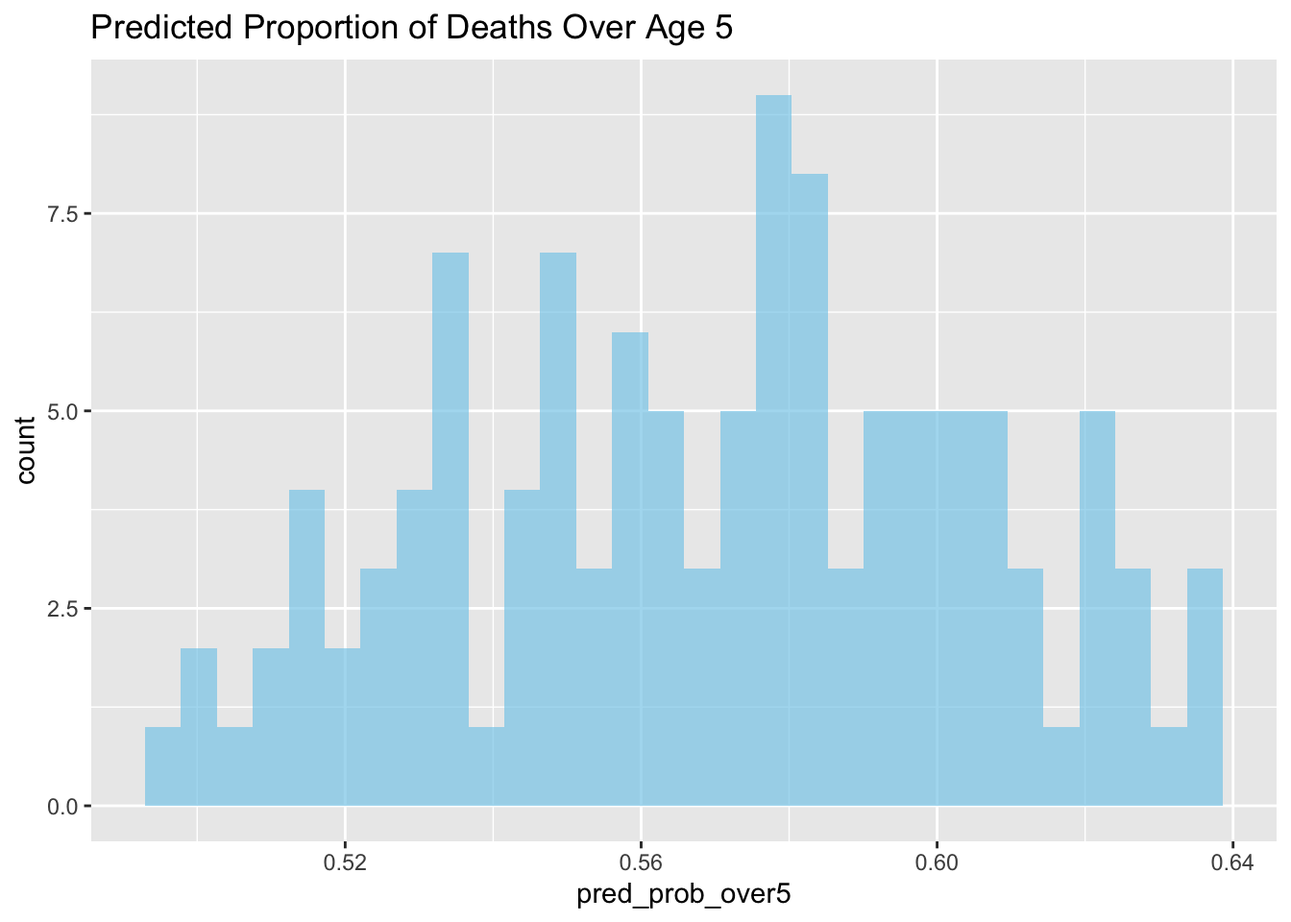
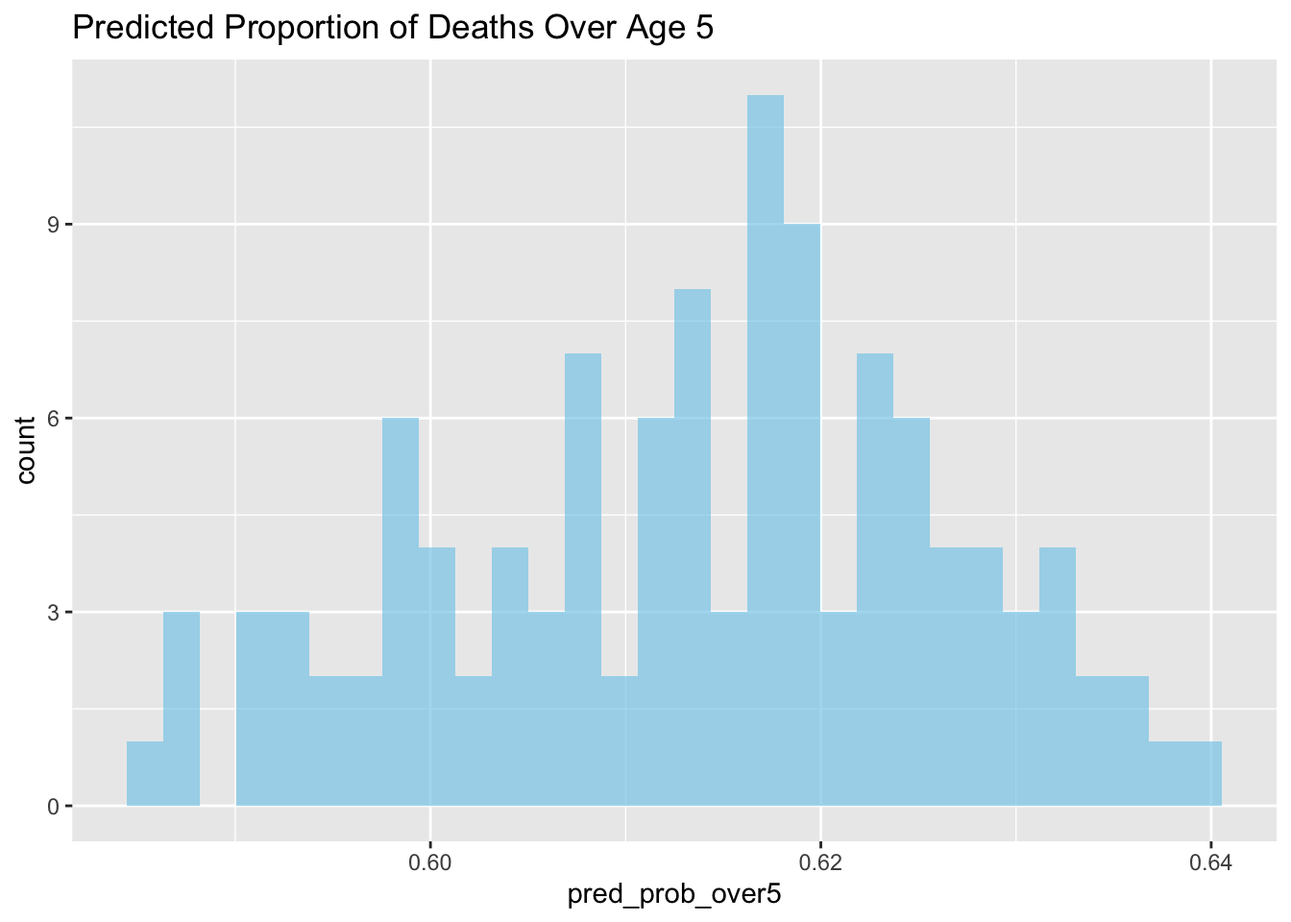
added updates

diff --git a/labs/day 1/day 1 lab 3.html b/labs/day 1/day 1 lab 3.html
@@ -188,26 +188,40 @@ lm(formula = mortality ~ Temp + Ozone, data = data)
 
 Residuals:
     Min      1Q  Median      3Q     Max 
--3.2857 -1.2708 -0.3406  1.0124  5.7048 
+-3.1125 -1.1216 -0.0759  0.9625  3.8896 
 
 Coefficients:
-            Estimate Std. Error t value Pr(&gt;|t|)
-(Intercept) 1.481652   1.623929   0.912    0.364
-Temp        0.010033   0.023108   0.434    0.665
-Ozone       0.010129   0.006645   1.524    0.130
+             Estimate Std. Error t value Pr(&gt;|t|)  
+(Intercept) -1.435160   1.421605  -1.010   0.3149  
+Temp         0.044623   0.020229   2.206   0.0294 *
+Ozone        0.014200   0.005817   2.441   0.0162 *
+---
+Signif. codes:  0 '***' 0.001 '**' 0.01 '*' 0.05 '.' 0.1 ' ' 1
 
-Residual standard error: 1.682 on 113 degrees of freedom
-Multiple R-squared:  0.05604,   Adjusted R-squared:  0.03933 
-F-statistic: 3.354 on 2 and 113 DF,  p-value: 0.03845</code></pre>
+Residual standard error: 1.473 on 113 degrees of freedom
+Multiple R-squared:  0.2407,    Adjusted R-squared:  0.2272 
+F-statistic: 17.91 on 2 and 113 DF,  p-value: 1.756e-07</code></pre>
 </div>
 </div>
+<div class="cell">
+<div class="sourceCode cell-code" id="cb17"><pre class="sourceCode r code-with-copy"><code class="sourceCode r"><span id="cb17-1"><a href="#cb17-1" aria-hidden="true" tabindex="-1"></a><span class="fu">par</span>(<span class="at">mfrow =</span> <span class="fu">c</span>(<span class="dv">1</span>, <span class="dv">2</span>))</span>
+<span id="cb17-2"><a href="#cb17-2" aria-hidden="true" tabindex="-1"></a><span class="fu">plot</span>(model_normal<span class="sc">$</span>fitted.values, <span class="fu">resid</span>(model_normal),</span>
+<span id="cb17-3"><a href="#cb17-3" aria-hidden="true" tabindex="-1"></a>     <span class="at">main =</span> <span class="st">"Residuals vs Fitted"</span>,</span>
+<span id="cb17-4"><a href="#cb17-4" aria-hidden="true" tabindex="-1"></a>     <span class="at">xlab =</span> <span class="st">"Fitted values"</span>, <span class="at">ylab =</span> <span class="st">"Residuals"</span>)</span>
+<span id="cb17-5"><a href="#cb17-5" aria-hidden="true" tabindex="-1"></a><span class="fu">abline</span>(<span class="at">h =</span> <span class="dv">0</span>, <span class="at">lty =</span> <span class="dv">2</span>)</span>
+<span id="cb17-6"><a href="#cb17-6" aria-hidden="true" tabindex="-1"></a><span class="fu">hist</span>(<span class="fu">resid</span>(model_normal), <span class="at">main =</span> <span class="st">"Histogram of Residuals"</span>, <span class="at">xlab =</span> <span class="st">"Residuals"</span>)</span></code><button title="Copy to Clipboard" class="code-copy-button"><i class="bi"></i></button></pre></div>
+<div class="cell-output-display">
+<p><img src="day-1-lab-3_files/figure-html/normal-goodness-of-fit-1.png" class="img-fluid" width="672"></p>
+</div>
+</div>
+<p>If residuals are roughly centered around zero and evenly spread (no funnel shape), and the histogram appears approximately normal, then the linear model fits reasonably well.</p>
 <section id="plot" class="level3">
 <h3 class="anchored" data-anchor-id="plot">Plot</h3>
 <div class="cell">
-<div class="sourceCode cell-code" id="cb17"><pre class="sourceCode r code-with-copy"><code class="sourceCode r"><span id="cb17-1"><a href="#cb17-1" aria-hidden="true" tabindex="-1"></a><span class="fu">ggplot</span>(data, <span class="fu">aes</span>(<span class="at">x =</span> Temp, <span class="at">y =</span> mortality)) <span class="sc">+</span></span>
-<span id="cb17-2"><a href="#cb17-2" aria-hidden="true" tabindex="-1"></a>  <span class="fu">geom_point</span>(<span class="at">alpha =</span> <span class="fl">0.4</span>) <span class="sc">+</span></span>
-<span id="cb17-3"><a href="#cb17-3" aria-hidden="true" tabindex="-1"></a>  <span class="fu">geom_smooth</span>(<span class="at">method =</span> <span class="st">"lm"</span>, <span class="at">se =</span> <span class="cn">FALSE</span>, <span class="at">color =</span> <span class="st">"blue"</span>) <span class="sc">+</span></span>
-<span id="cb17-4"><a href="#cb17-4" aria-hidden="true" tabindex="-1"></a>  <span class="fu">labs</span>(<span class="at">title =</span> <span class="st">"Simulated Mortality vs Temperature"</span>)</span></code><button title="Copy to Clipboard" class="code-copy-button"><i class="bi"></i></button></pre></div>
+<div class="sourceCode cell-code" id="cb18"><pre class="sourceCode r code-with-copy"><code class="sourceCode r"><span id="cb18-1"><a href="#cb18-1" aria-hidden="true" tabindex="-1"></a><span class="fu">ggplot</span>(data, <span class="fu">aes</span>(<span class="at">x =</span> Temp, <span class="at">y =</span> mortality)) <span class="sc">+</span></span>
+<span id="cb18-2"><a href="#cb18-2" aria-hidden="true" tabindex="-1"></a>  <span class="fu">geom_point</span>(<span class="at">alpha =</span> <span class="fl">0.4</span>) <span class="sc">+</span></span>
+<span id="cb18-3"><a href="#cb18-3" aria-hidden="true" tabindex="-1"></a>  <span class="fu">geom_smooth</span>(<span class="at">method =</span> <span class="st">"lm"</span>, <span class="at">se =</span> <span class="cn">FALSE</span>, <span class="at">color =</span> <span class="st">"blue"</span>) <span class="sc">+</span></span>
+<span id="cb18-4"><a href="#cb18-4" aria-hidden="true" tabindex="-1"></a>  <span class="fu">labs</span>(<span class="at">title =</span> <span class="st">"Simulated Mortality vs Temperature"</span>)</span></code><button title="Copy to Clipboard" class="code-copy-button"><i class="bi"></i></button></pre></div>
 <div class="cell-output cell-output-stderr">
 <pre><code>`geom_smooth()` using formula = 'y ~ x'</code></pre>
 </div>
@@ -220,8 +234,10 @@ F-statistic: 3.354 on 2 and 113 DF,  p-value: 0.03845</code></pre>
 <section id="poisson-regression-count-data" class="level2">
 <h2 class="anchored" data-anchor-id="poisson-regression-count-data">2. Poisson Regression (Count Data)</h2>
 <div class="cell">
-<div class="sourceCode cell-code" id="cb19"><pre class="sourceCode r code-with-copy"><code class="sourceCode r"><span id="cb19-1"><a href="#cb19-1" aria-hidden="true" tabindex="-1"></a>model_poisson <span class="ot">&lt;-</span> <span class="fu">glm</span>(mortality <span class="sc">~</span> Temp <span class="sc">+</span> Ozone <span class="sc">+</span> day_of_week, <span class="at">family =</span> <span class="fu">poisson</span>(), <span class="at">data =</span> data)</span>
-<span id="cb19-2"><a href="#cb19-2" aria-hidden="true" tabindex="-1"></a><span class="fu">summary</span>(model_poisson)</span></code><button title="Copy to Clipboard" class="code-copy-button"><i class="bi"></i></button></pre></div>
+<div class="sourceCode cell-code" id="cb20"><pre class="sourceCode r code-with-copy"><code class="sourceCode r"><span id="cb20-1"><a href="#cb20-1" aria-hidden="true" tabindex="-1"></a>model_poisson <span class="ot">&lt;-</span> <span class="fu">glm</span>(mortality <span class="sc">~</span> Temp <span class="sc">+</span> Ozone <span class="sc">+</span> day_of_week, </span>
+<span id="cb20-2"><a href="#cb20-2" aria-hidden="true" tabindex="-1"></a>                     <span class="at">family =</span> <span class="fu">poisson</span>(), </span>
+<span id="cb20-3"><a href="#cb20-3" aria-hidden="true" tabindex="-1"></a>                     <span class="at">data =</span> data)</span>
+<span id="cb20-4"><a href="#cb20-4" aria-hidden="true" tabindex="-1"></a><span class="fu">summary</span>(model_poisson)</span></code><button title="Copy to Clipboard" class="code-copy-button"><i class="bi"></i></button></pre></div>
 <div class="cell-output cell-output-stdout">
 <pre><code>
 Call:
@@ -230,35 +246,43 @@ glm(formula = mortality ~ Temp + Ozone + day_of_week, family = poisson(),
 
 Coefficients:
                 Estimate Std. Error z value Pr(&gt;|z|)  
-(Intercept)     0.053362   0.668222   0.080   0.9364  
-Temp            0.009710   0.008970   1.083   0.2790  
-Ozone           0.002145   0.002362   0.908   0.3639  
-day_of_weekMon  0.142881   0.199060   0.718   0.4729  
-day_of_weekSat  0.022359   0.206017   0.109   0.9136  
-day_of_weekSun  0.348766   0.208857   1.670   0.0949 .
-day_of_weekThu -0.090893   0.239740  -0.379   0.7046  
-day_of_weekTue -0.057654   0.235307  -0.245   0.8064  
-day_of_weekWed  0.053262   0.223112   0.239   0.8113  
+(Intercept)    -1.082023   0.675783  -1.601   0.1093  
+Temp            0.019215   0.008750   2.196   0.0281 *
+Ozone           0.004714   0.002227   2.117   0.0343 *
+day_of_weekMon  0.377902   0.303415   1.245   0.2129  
+day_of_weekSat  0.250959   0.271264   0.925   0.3549  
+day_of_weekSun  0.180594   0.272931   0.662   0.5082  
+day_of_weekThu  0.300581   0.264392   1.137   0.2556  
+day_of_weekTue  0.509072   0.269844   1.887   0.0592 .
+day_of_weekWed  0.406897   0.266991   1.524   0.1275  
 ---
 Signif. codes:  0 '***' 0.001 '**' 0.01 '*' 0.05 '.' 0.1 ' ' 1
 
 (Dispersion parameter for poisson family taken to be 1)
 
-    Null deviance: 130.19  on 115  degrees of freedom
-Residual deviance: 117.69  on 107  degrees of freedom
-AIC: 443.27
+    Null deviance: 140.01  on 115  degrees of freedom
+Residual deviance: 105.89  on 107  degrees of freedom
+AIC: 423.78
 
 Number of Fisher Scoring iterations: 5</code></pre>
 </div>
 </div>
+<div class="cell">
+<div class="sourceCode cell-code" id="cb22"><pre class="sourceCode r code-with-copy"><code class="sourceCode r"><span id="cb22-1"><a href="#cb22-1" aria-hidden="true" tabindex="-1"></a>p_value <span class="ot">&lt;-</span> <span class="dv">1</span> <span class="sc">-</span> <span class="fu">pchisq</span>(model_poisson<span class="sc">$</span>deviance, <span class="at">df =</span> model_poisson<span class="sc">$</span>df.residual)</span>
+<span id="cb22-2"><a href="#cb22-2" aria-hidden="true" tabindex="-1"></a><span class="fu">cat</span>(<span class="st">"Deviance GOF Test p-value:"</span>, <span class="fu">round</span>(p_value, <span class="dv">4</span>))</span></code><button title="Copy to Clipboard" class="code-copy-button"><i class="bi"></i></button></pre></div>
+<div class="cell-output cell-output-stdout">
+<pre><code>Deviance GOF Test p-value: 0.5123</code></pre>
+</div>
+</div>
+<p>If the p-value is greater than 0.05, it suggests that the model fits the data well. If it is less than 0.05, the model may not fit well.</p>
 <section id="plot-1" class="level3">
 <h3 class="anchored" data-anchor-id="plot-1">Plot</h3>
 <div class="cell">
-<div class="sourceCode cell-code" id="cb21"><pre class="sourceCode r code-with-copy"><code class="sourceCode r"><span id="cb21-1"><a href="#cb21-1" aria-hidden="true" tabindex="-1"></a>data<span class="sc">$</span>pred_mortality <span class="ot">&lt;-</span> <span class="fu">predict</span>(model_poisson, <span class="at">type =</span> <span class="st">"response"</span>)</span>
-<span id="cb21-2"><a href="#cb21-2" aria-hidden="true" tabindex="-1"></a><span class="fu">ggplot</span>(data, <span class="fu">aes</span>(<span class="at">x =</span> pred_mortality, <span class="at">y =</span> mortality)) <span class="sc">+</span></span>
-<span id="cb21-3"><a href="#cb21-3" aria-hidden="true" tabindex="-1"></a>  <span class="fu">geom_point</span>(<span class="at">alpha =</span> <span class="fl">0.5</span>) <span class="sc">+</span></span>
-<span id="cb21-4"><a href="#cb21-4" aria-hidden="true" tabindex="-1"></a>  <span class="fu">geom_smooth</span>(<span class="at">method =</span> <span class="st">"lm"</span>) <span class="sc">+</span></span>
-<span id="cb21-5"><a href="#cb21-5" aria-hidden="true" tabindex="-1"></a>  <span class="fu">labs</span>(<span class="at">title =</span> <span class="st">"Predicted vs Observed Mortality (Poisson Model)"</span>)</span></code><button title="Copy to Clipboard" class="code-copy-button"><i class="bi"></i></button></pre></div>
+<div class="sourceCode cell-code" id="cb24"><pre class="sourceCode r code-with-copy"><code class="sourceCode r"><span id="cb24-1"><a href="#cb24-1" aria-hidden="true" tabindex="-1"></a>data<span class="sc">$</span>pred_mortality <span class="ot">&lt;-</span> <span class="fu">predict</span>(model_poisson, <span class="at">type =</span> <span class="st">"response"</span>)</span>
+<span id="cb24-2"><a href="#cb24-2" aria-hidden="true" tabindex="-1"></a><span class="fu">ggplot</span>(data, <span class="fu">aes</span>(<span class="at">x =</span> pred_mortality, <span class="at">y =</span> mortality)) <span class="sc">+</span></span>
+<span id="cb24-3"><a href="#cb24-3" aria-hidden="true" tabindex="-1"></a>  <span class="fu">geom_point</span>(<span class="at">alpha =</span> <span class="fl">0.5</span>) <span class="sc">+</span></span>
+<span id="cb24-4"><a href="#cb24-4" aria-hidden="true" tabindex="-1"></a>  <span class="fu">geom_smooth</span>(<span class="at">method =</span> <span class="st">"lm"</span>) <span class="sc">+</span></span>
+<span id="cb24-5"><a href="#cb24-5" aria-hidden="true" tabindex="-1"></a>  <span class="fu">labs</span>(<span class="at">title =</span> <span class="st">"Predicted vs Observed Mortality (Poisson Model)"</span>)</span></code><button title="Copy to Clipboard" class="code-copy-button"><i class="bi"></i></button></pre></div>
 <div class="cell-output cell-output-stderr">
 <pre><code>`geom_smooth()` using formula = 'y ~ x'</code></pre>
 </div>
@@ -271,8 +295,10 @@ Number of Fisher Scoring iterations: 5</code></pre>
 <section id="logistic-regression-bernoulli-likelihood" class="level2">
 <h2 class="anchored" data-anchor-id="logistic-regression-bernoulli-likelihood">3. Logistic Regression (Bernoulli Likelihood)</h2>
 <div class="cell">
-<div class="sourceCode cell-code" id="cb23"><pre class="sourceCode r code-with-copy"><code class="sourceCode r"><span id="cb23-1"><a href="#cb23-1" aria-hidden="true" tabindex="-1"></a>model_logistic <span class="ot">&lt;-</span> <span class="fu">glm</span>(high_mort <span class="sc">~</span> Temp <span class="sc">+</span> Ozone, <span class="at">family =</span> <span class="fu">binomial</span>(), <span class="at">data =</span> data)</span>
-<span id="cb23-2"><a href="#cb23-2" aria-hidden="true" tabindex="-1"></a><span class="fu">summary</span>(model_logistic)</span></code><button title="Copy to Clipboard" class="code-copy-button"><i class="bi"></i></button></pre></div>
+<div class="sourceCode cell-code" id="cb26"><pre class="sourceCode r code-with-copy"><code class="sourceCode r"><span id="cb26-1"><a href="#cb26-1" aria-hidden="true" tabindex="-1"></a>model_logistic <span class="ot">&lt;-</span> <span class="fu">glm</span>(high_mort <span class="sc">~</span> Temp <span class="sc">+</span> Ozone, </span>
+<span id="cb26-2"><a href="#cb26-2" aria-hidden="true" tabindex="-1"></a>                      <span class="at">family =</span> <span class="fu">binomial</span>(), </span>
+<span id="cb26-3"><a href="#cb26-3" aria-hidden="true" tabindex="-1"></a>                      <span class="at">data =</span> data)</span>
+<span id="cb26-4"><a href="#cb26-4" aria-hidden="true" tabindex="-1"></a><span class="fu">summary</span>(model_logistic)</span></code><button title="Copy to Clipboard" class="code-copy-button"><i class="bi"></i></button></pre></div>
 <div class="cell-output cell-output-stdout">
 <pre><code>
 Call:
@@ -280,26 +306,37 @@ glm(formula = high_mort ~ Temp + Ozone, family = binomial(),
     data = data)
 
 Coefficients:
-             Estimate Std. Error z value Pr(&gt;|z|)
-(Intercept) -3.693075   2.926061  -1.262    0.207
-Temp         0.015636   0.040128   0.390    0.697
-Ozone        0.014118   0.009793   1.442    0.149
+             Estimate Std. Error z value Pr(&gt;|z|)  
+(Intercept) -5.056186   2.895377  -1.746   0.0808 .
+Temp         0.036365   0.039361   0.924   0.3555  
+Ozone        0.012035   0.009451   1.273   0.2029  
+---
+Signif. codes:  0 '***' 0.001 '**' 0.01 '*' 0.05 '.' 0.1 ' ' 1
 
 (Dispersion parameter for binomial family taken to be 1)
 
-    Null deviance: 96.670  on 115  degrees of freedom
-Residual deviance: 91.227  on 113  degrees of freedom
-AIC: 97.227
+    Null deviance: 106.649  on 115  degrees of freedom
+Residual deviance:  98.883  on 113  degrees of freedom
+AIC: 104.88
 
 Number of Fisher Scoring iterations: 5</code></pre>
 </div>
 </div>
+<div class="cell">
+<div class="sourceCode cell-code" id="cb28"><pre class="sourceCode r code-with-copy"><code class="sourceCode r"><span id="cb28-1"><a href="#cb28-1" aria-hidden="true" tabindex="-1"></a><span class="fu">library</span>(ResourceSelection)</span>
+<span id="cb28-2"><a href="#cb28-2" aria-hidden="true" tabindex="-1"></a>hoslem_test <span class="ot">&lt;-</span> <span class="fu">hoslem.test</span>(model_logistic<span class="sc">$</span>y, <span class="fu">fitted</span>(model_logistic), <span class="at">g =</span> <span class="dv">10</span>)</span>
+<span id="cb28-3"><a href="#cb28-3" aria-hidden="true" tabindex="-1"></a><span class="fu">cat</span>(<span class="st">"Hosmer-Lemeshow Test p-value:"</span>, <span class="fu">round</span>(hoslem_test<span class="sc">$</span>p.value, <span class="dv">4</span>))</span></code><button title="Copy to Clipboard" class="code-copy-button"><i class="bi"></i></button></pre></div>
+<div class="cell-output cell-output-stdout">
+<pre><code>Hosmer-Lemeshow Test p-value: 0.15</code></pre>
+</div>
+</div>
+<p>If the Hosmer-Lemeshow test p-value is &gt; 0.05, this suggests no significant difference between predicted and observed values, indicating good fit. A low p-value implies poor fit.</p>
 <section id="plot-2" class="level3">
 <h3 class="anchored" data-anchor-id="plot-2">Plot</h3>
 <div class="cell">
-<div class="sourceCode cell-code" id="cb25"><pre class="sourceCode r code-with-copy"><code class="sourceCode r"><span id="cb25-1"><a href="#cb25-1" aria-hidden="true" tabindex="-1"></a><span class="fu">ggplot</span>(data, <span class="fu">aes</span>(<span class="at">x =</span> <span class="fu">fitted</span>(model_logistic), <span class="at">fill =</span> <span class="fu">as.factor</span>(high_mort))) <span class="sc">+</span></span>
-<span id="cb25-2"><a href="#cb25-2" aria-hidden="true" tabindex="-1"></a>  <span class="fu">geom_histogram</span>(<span class="at">position =</span> <span class="st">"identity"</span>, <span class="at">alpha =</span> <span class="fl">0.5</span>, <span class="at">bins =</span> <span class="dv">30</span>) <span class="sc">+</span></span>
-<span id="cb25-3"><a href="#cb25-3" aria-hidden="true" tabindex="-1"></a>  <span class="fu">labs</span>(<span class="at">title =</span> <span class="st">"Fitted Probabilities for High Mortality Days"</span>, <span class="at">fill =</span> <span class="st">"High Mortality"</span>)</span></code><button title="Copy to Clipboard" class="code-copy-button"><i class="bi"></i></button></pre></div>
+<div class="sourceCode cell-code" id="cb30"><pre class="sourceCode r code-with-copy"><code class="sourceCode r"><span id="cb30-1"><a href="#cb30-1" aria-hidden="true" tabindex="-1"></a><span class="fu">ggplot</span>(data, <span class="fu">aes</span>(<span class="at">x =</span> <span class="fu">fitted</span>(model_logistic), <span class="at">fill =</span> <span class="fu">as.factor</span>(high_mort))) <span class="sc">+</span></span>
+<span id="cb30-2"><a href="#cb30-2" aria-hidden="true" tabindex="-1"></a>  <span class="fu">geom_histogram</span>(<span class="at">position =</span> <span class="st">"identity"</span>, <span class="at">alpha =</span> <span class="fl">0.5</span>, <span class="at">bins =</span> <span class="dv">30</span>) <span class="sc">+</span></span>
+<span id="cb30-3"><a href="#cb30-3" aria-hidden="true" tabindex="-1"></a>  <span class="fu">labs</span>(<span class="at">title =</span> <span class="st">"Fitted Probabilities for High Mortality Days"</span>, <span class="at">fill =</span> <span class="st">"High Mortality"</span>)</span></code><button title="Copy to Clipboard" class="code-copy-button"><i class="bi"></i></button></pre></div>
 <div class="cell-output-display">
 <p><img src="day-1-lab-3_files/figure-html/real-logistic-plot-1.png" class="img-fluid" width="672"></p>
 </div>
@@ -309,8 +346,10 @@ Number of Fisher Scoring iterations: 5</code></pre>
 <section id="binomial-regression-grouped-binary-outcomes" class="level2">
 <h2 class="anchored" data-anchor-id="binomial-regression-grouped-binary-outcomes">4. Binomial Regression (Grouped Binary Outcomes)</h2>
 <div class="cell">
-<div class="sourceCode cell-code" id="cb26"><pre class="sourceCode r code-with-copy"><code class="sourceCode r"><span id="cb26-1"><a href="#cb26-1" aria-hidden="true" tabindex="-1"></a>model_binomial <span class="ot">&lt;-</span> <span class="fu">glm</span>(<span class="fu">cbind</span>(deaths_over5, total_deaths <span class="sc">-</span> deaths_over5) <span class="sc">~</span> Temp <span class="sc">+</span> Ozone, <span class="at">family =</span> <span class="fu">binomial</span>(), <span class="at">data =</span> data)</span>
-<span id="cb26-2"><a href="#cb26-2" aria-hidden="true" tabindex="-1"></a><span class="fu">summary</span>(model_binomial)</span></code><button title="Copy to Clipboard" class="code-copy-button"><i class="bi"></i></button></pre></div>
+<div class="sourceCode cell-code" id="cb31"><pre class="sourceCode r code-with-copy"><code class="sourceCode r"><span id="cb31-1"><a href="#cb31-1" aria-hidden="true" tabindex="-1"></a>model_binomial <span class="ot">&lt;-</span> <span class="fu">glm</span>(<span class="fu">cbind</span>(deaths_over5, total_deaths <span class="sc">-</span> deaths_over5) <span class="sc">~</span> Temp <span class="sc">+</span> Ozone, </span>
+<span id="cb31-2"><a href="#cb31-2" aria-hidden="true" tabindex="-1"></a>                      <span class="at">family =</span> <span class="fu">binomial</span>(), </span>
+<span id="cb31-3"><a href="#cb31-3" aria-hidden="true" tabindex="-1"></a>                      <span class="at">data =</span> data)</span>
+<span id="cb31-4"><a href="#cb31-4" aria-hidden="true" tabindex="-1"></a><span class="fu">summary</span>(model_binomial)</span></code><button title="Copy to Clipboard" class="code-copy-button"><i class="bi"></i></button></pre></div>
 <div class="cell-output cell-output-stdout">
 <pre><code>
 Call:
@@ -318,27 +357,35 @@ glm(formula = cbind(deaths_over5, total_deaths - deaths_over5) ~
     Temp + Ozone, family = binomial(), data = data)
 
 Coefficients:
-              Estimate Std. Error z value Pr(&gt;|z|)
-(Intercept) -0.7613145  0.7087172  -1.074    0.283
-Temp         0.0129507  0.0099809   1.298    0.194
-Ozone        0.0008499  0.0027758   0.306    0.759
+             Estimate Std. Error z value Pr(&gt;|z|)
+(Intercept) 1.952e-02  7.503e-01   0.026    0.979
+Temp        5.697e-03  1.052e-02   0.541    0.588
+Ozone       1.296e-05  2.783e-03   0.005    0.996
 
 (Dispersion parameter for binomial family taken to be 1)
 
-    Null deviance: 134.20  on 115  degrees of freedom
-Residual deviance: 129.92  on 113  degrees of freedom
-AIC: 405.14
+    Null deviance: 147.36  on 115  degrees of freedom
+Residual deviance: 146.79  on 113  degrees of freedom
+AIC: 407.1
 
-Number of Fisher Scoring iterations: 3</code></pre>
+Number of Fisher Scoring iterations: 4</code></pre>
 </div>
 </div>
+<div class="cell">
+<div class="sourceCode cell-code" id="cb33"><pre class="sourceCode r code-with-copy"><code class="sourceCode r"><span id="cb33-1"><a href="#cb33-1" aria-hidden="true" tabindex="-1"></a>p_value_binomial <span class="ot">&lt;-</span> <span class="dv">1</span> <span class="sc">-</span> <span class="fu">pchisq</span>(model_binomial<span class="sc">$</span>deviance, <span class="at">df =</span> model_binomial<span class="sc">$</span>df.residual)</span>
+<span id="cb33-2"><a href="#cb33-2" aria-hidden="true" tabindex="-1"></a><span class="fu">cat</span>(<span class="st">"Binomial Deviance GOF Test p-value:"</span>, <span class="fu">round</span>(p_value_binomial, <span class="dv">4</span>))</span></code><button title="Copy to Clipboard" class="code-copy-button"><i class="bi"></i></button></pre></div>
+<div class="cell-output cell-output-stdout">
+<pre><code>Binomial Deviance GOF Test p-value: 0.0179</code></pre>
+</div>
+</div>
+<p>If the p-value is greater than 0.05, it suggests that the model fits the data well. If it is less than 0.05, the model may not fit well.</p>
 <section id="plot-3" class="level3">
 <h3 class="anchored" data-anchor-id="plot-3">Plot</h3>
 <div class="cell">
-<div class="sourceCode cell-code" id="cb28"><pre class="sourceCode r code-with-copy"><code class="sourceCode r"><span id="cb28-1"><a href="#cb28-1" aria-hidden="true" tabindex="-1"></a>data<span class="sc">$</span>pred_prob_over5 <span class="ot">&lt;-</span> <span class="fu">predict</span>(model_binomial, <span class="at">type =</span> <span class="st">"response"</span>)</span>
-<span id="cb28-2"><a href="#cb28-2" aria-hidden="true" tabindex="-1"></a><span class="fu">ggplot</span>(data, <span class="fu">aes</span>(<span class="at">x =</span> pred_prob_over5)) <span class="sc">+</span></span>
-<span id="cb28-3"><a href="#cb28-3" aria-hidden="true" tabindex="-1"></a>  <span class="fu">geom_histogram</span>(<span class="at">bins =</span> <span class="dv">30</span>, <span class="at">fill =</span> <span class="st">"skyblue"</span>, <span class="at">alpha =</span> <span class="fl">0.7</span>) <span class="sc">+</span></span>
-<span id="cb28-4"><a href="#cb28-4" aria-hidden="true" tabindex="-1"></a>  <span class="fu">labs</span>(<span class="at">title =</span> <span class="st">"Predicted Proportion of Deaths Over Age 5"</span>)</span></code><button title="Copy to Clipboard" class="code-copy-button"><i class="bi"></i></button></pre></div>
+<div class="sourceCode cell-code" id="cb35"><pre class="sourceCode r code-with-copy"><code class="sourceCode r"><span id="cb35-1"><a href="#cb35-1" aria-hidden="true" tabindex="-1"></a>data<span class="sc">$</span>pred_prob_over5 <span class="ot">&lt;-</span> <span class="fu">predict</span>(model_binomial, <span class="at">type =</span> <span class="st">"response"</span>)</span>
+<span id="cb35-2"><a href="#cb35-2" aria-hidden="true" tabindex="-1"></a><span class="fu">ggplot</span>(data, <span class="fu">aes</span>(<span class="at">x =</span> pred_prob_over5)) <span class="sc">+</span></span>
+<span id="cb35-3"><a href="#cb35-3" aria-hidden="true" tabindex="-1"></a>  <span class="fu">geom_histogram</span>(<span class="at">bins =</span> <span class="dv">30</span>, <span class="at">fill =</span> <span class="st">"skyblue"</span>, <span class="at">alpha =</span> <span class="fl">0.7</span>) <span class="sc">+</span></span>
+<span id="cb35-4"><a href="#cb35-4" aria-hidden="true" tabindex="-1"></a>  <span class="fu">labs</span>(<span class="at">title =</span> <span class="st">"Predicted Proportion of Deaths Over Age 5"</span>)</span></code><button title="Copy to Clipboard" class="code-copy-button"><i class="bi"></i></button></pre></div>
 <div class="cell-output-display">
 <p><img src="day-1-lab-3_files/figure-html/real-binomial-plot-1.png" class="img-fluid" width="672"></p>
 </div>

diff --git a/labs/day 1/day 1 lab 1.html b/labs/day 1/day 1 lab 1.html
@@ -109,6 +109,7 @@ pre > code.sourceCode > span > a:first-child::before { text-decoration: underlin
 
 </header>
 
+<p>This lab will involve taking some models and concepts from the Introduction to methods in environmental epidemiology 1 lecture and introduce you to the way linear regression works</p>
 <section id="preparation" class="level2 cell">
 <h2 class="anchored" data-anchor-id="preparation">0: Preparation</h2>
 <p>Load necessary packages</p>
@@ -302,7 +303,9 @@ dbl (12): AveBMI, AvePM, NumTot, MedHVal, MedHInc, PerAsianAm, PerBlack, Per...
 <section id="fit-regression-model" class="level2 cell">
 <h2 class="anchored" data-anchor-id="fit-regression-model">5: Fit Regression Model</h2>
 <div class="cell">
-<div class="sourceCode cell-code" id="cb37"><pre class="sourceCode r code-with-copy"><code class="sourceCode r"><span id="cb37-1"><a href="#cb37-1" aria-hidden="true" tabindex="-1"></a>mod <span class="ot">&lt;-</span> <span class="fu">lm</span>(AveBMI <span class="sc">~</span> AvePM <span class="sc">+</span> PerBlack <span class="sc">+</span> PerLatinx <span class="sc">+</span> PerAsianAm <span class="sc">+</span> MedHInc <span class="sc">+</span> MedHVal <span class="sc">+</span> LTHS <span class="sc">+</span> FemaleUnemp <span class="sc">+</span> MaleUnemp <span class="sc">+</span> ClimateRegion, <span class="at">data =</span> dta, <span class="at">na.action =</span> na.omit)</span></code><button title="Copy to Clipboard" class="code-copy-button"><i class="bi"></i></button></pre></div>
+<div class="sourceCode cell-code" id="cb37"><pre class="sourceCode r code-with-copy"><code class="sourceCode r"><span id="cb37-1"><a href="#cb37-1" aria-hidden="true" tabindex="-1"></a>mod <span class="ot">&lt;-</span> <span class="fu">lm</span>(AveBMI <span class="sc">~</span> AvePM <span class="sc">+</span> PerBlack <span class="sc">+</span> PerLatinx <span class="sc">+</span> PerAsianAm <span class="sc">+</span> MedHInc <span class="sc">+</span> </span>
+<span id="cb37-2"><a href="#cb37-2" aria-hidden="true" tabindex="-1"></a>            MedHVal <span class="sc">+</span> LTHS <span class="sc">+</span> FemaleUnemp <span class="sc">+</span> MaleUnemp <span class="sc">+</span> ClimateRegion, </span>
+<span id="cb37-3"><a href="#cb37-3" aria-hidden="true" tabindex="-1"></a>          <span class="at">data =</span> dta, <span class="at">na.action =</span> na.omit)</span></code><button title="Copy to Clipboard" class="code-copy-button"><i class="bi"></i></button></pre></div>
 </div>
 </section>
 <section id="review-model-results" class="level2 cell">
